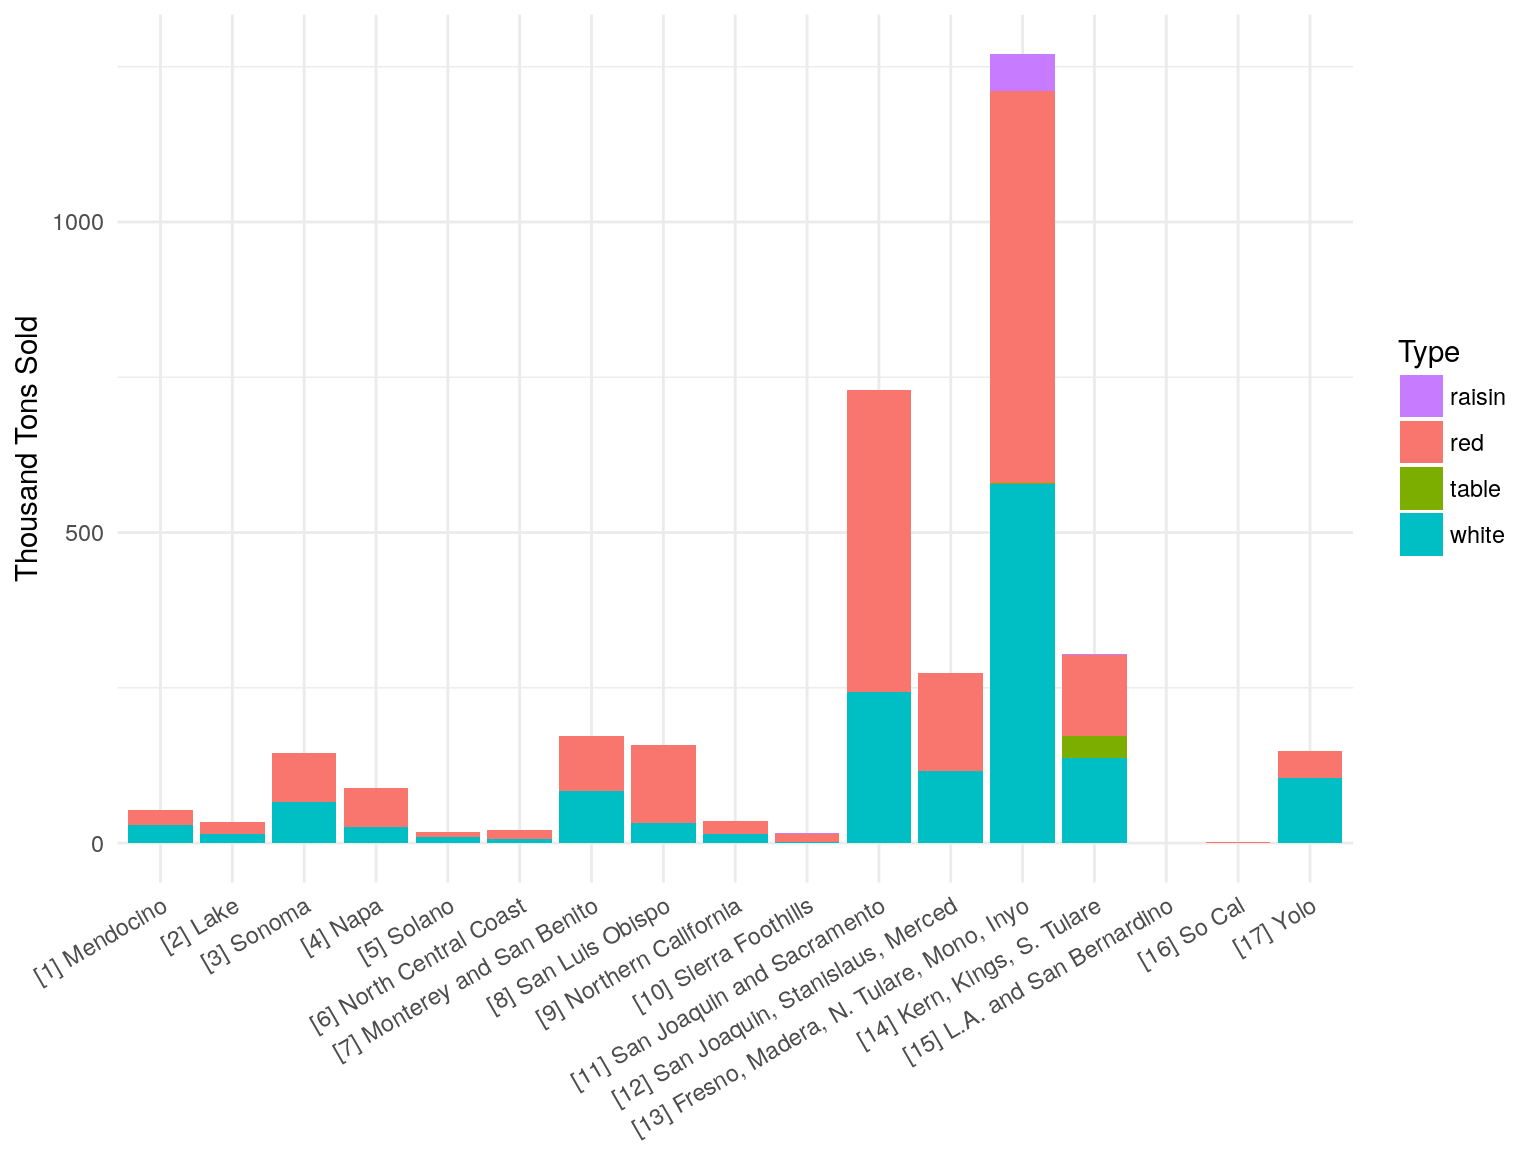
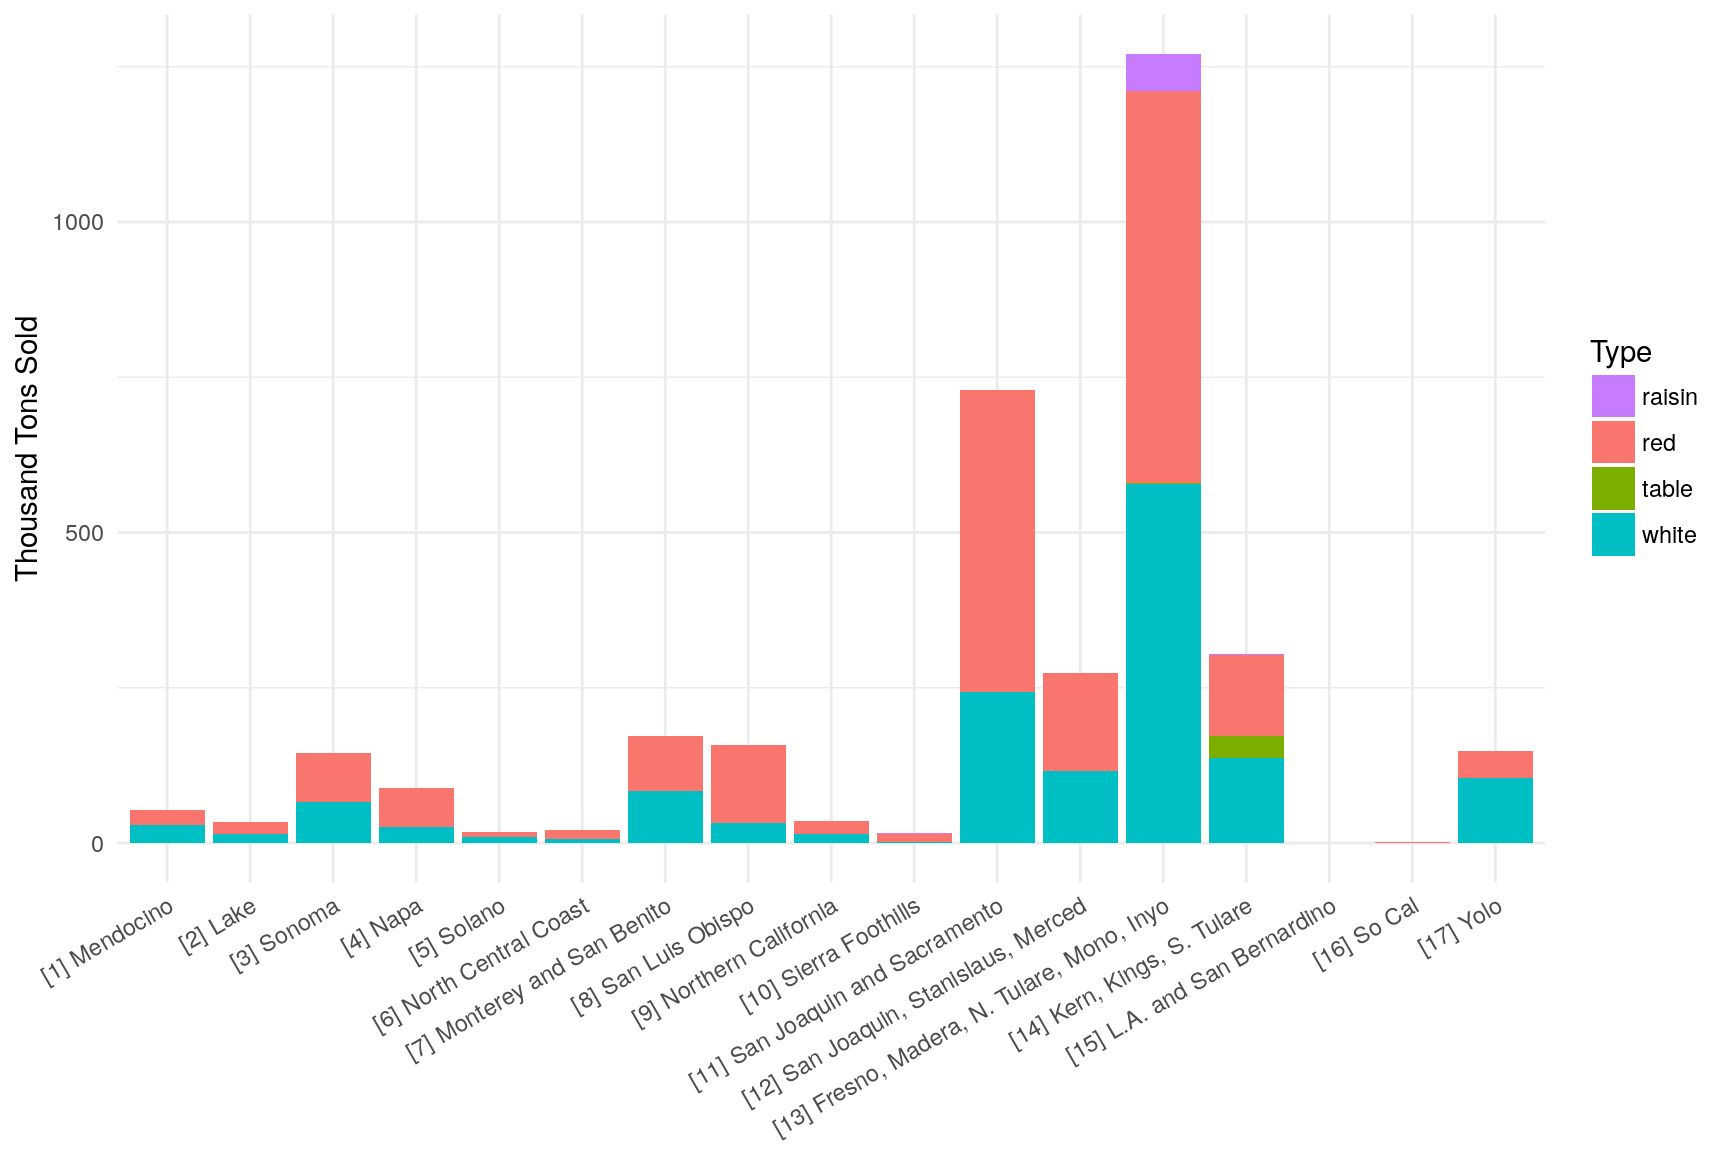
publish .Rmd files

diff --git a/content/post/2017-11-22-california-wine-grapes-part-1.html b/content/post/2017-11-22-california-wine-grapes-part-1.html
@@ -23,7 +23,7 @@ runtime: shiny
 ## 9  chardonnay              600.0       100 145.4 2005 DISTRICT 1
 ## 10 chardonnay              600.0      9400  69.7 2005 DISTRICT 1</code></pre>
 <p>We can see the distribution of tonnage within California’s wine regions.</p>
-<p><img src="/post/2017-11-22-california-wine-grapes-part-1_files/figure-html/unnamed-chunk-3-1.png" width="768" /></p>
+<p><img src="/post/2017-11-22-california-wine-grapes-part-1_files/figure-html/unnamed-chunk-3-1.png" width="864" /></p>
 <p>We can also see a distribution of prices by district. We can see a sharp</p>
 <p><img src="/post/2017-11-22-california-wine-grapes-part-1_files/figure-html/unnamed-chunk-4-1.png" width="768" /></p>
 <p>We can compare historic varieties prices within regions. The interactive graph below allows you to select varieties</p>

diff --git a/public/2017/11/23/california-wine----part-1/index.html b/public/2017/11/23/california-wine----part-1/index.html
@@ -84,7 +84,7 @@
 ## 9  chardonnay              600.0       100 145.4 2005 DISTRICT 1
 ## 10 chardonnay              600.0      9400  69.7 2005 DISTRICT 1</code></pre>
 <p>We can see the distribution of tonnage within California’s wine regions.</p>
-<p><img src="/post/2017-11-22-california-wine-grapes-part-1_files/figure-html/unnamed-chunk-3-1.png" width="768" /></p>
+<p><img src="/post/2017-11-22-california-wine-grapes-part-1_files/figure-html/unnamed-chunk-3-1.png" width="864" /></p>
 <p>We can also see a distribution of prices by district. We can see a sharp</p>
 <p><img src="/post/2017-11-22-california-wine-grapes-part-1_files/figure-html/unnamed-chunk-4-1.png" width="768" /></p>
 <p>We can compare historic varieties prices within regions. The interactive graph below allows you to select varieties</p>
